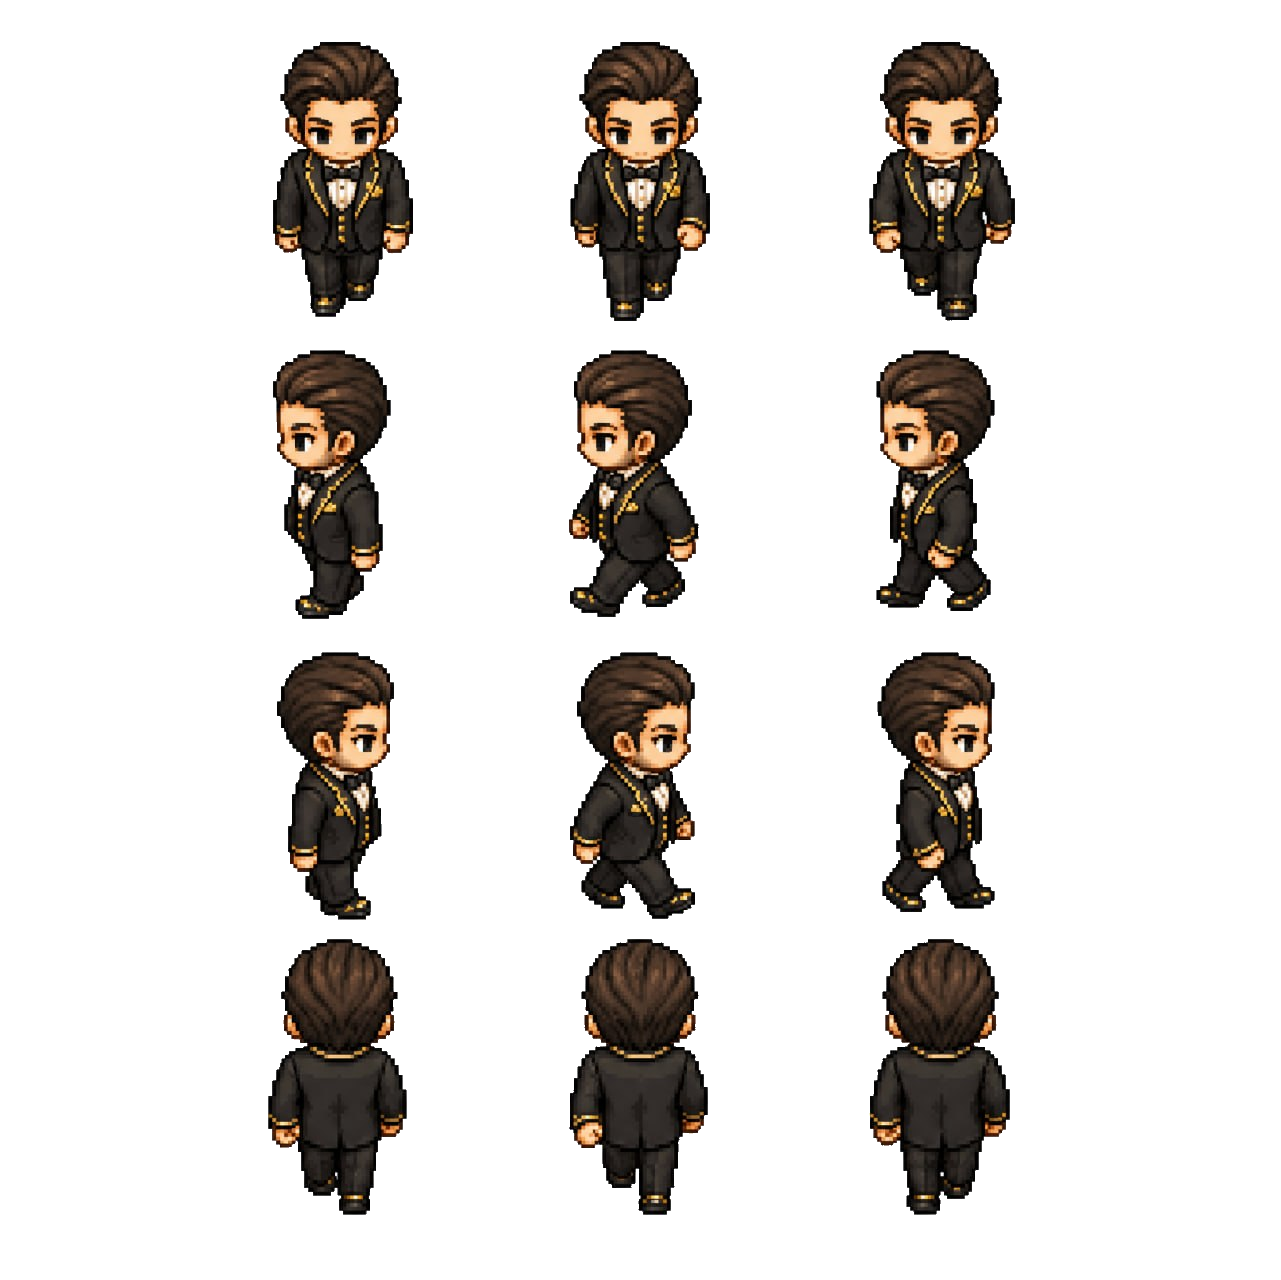
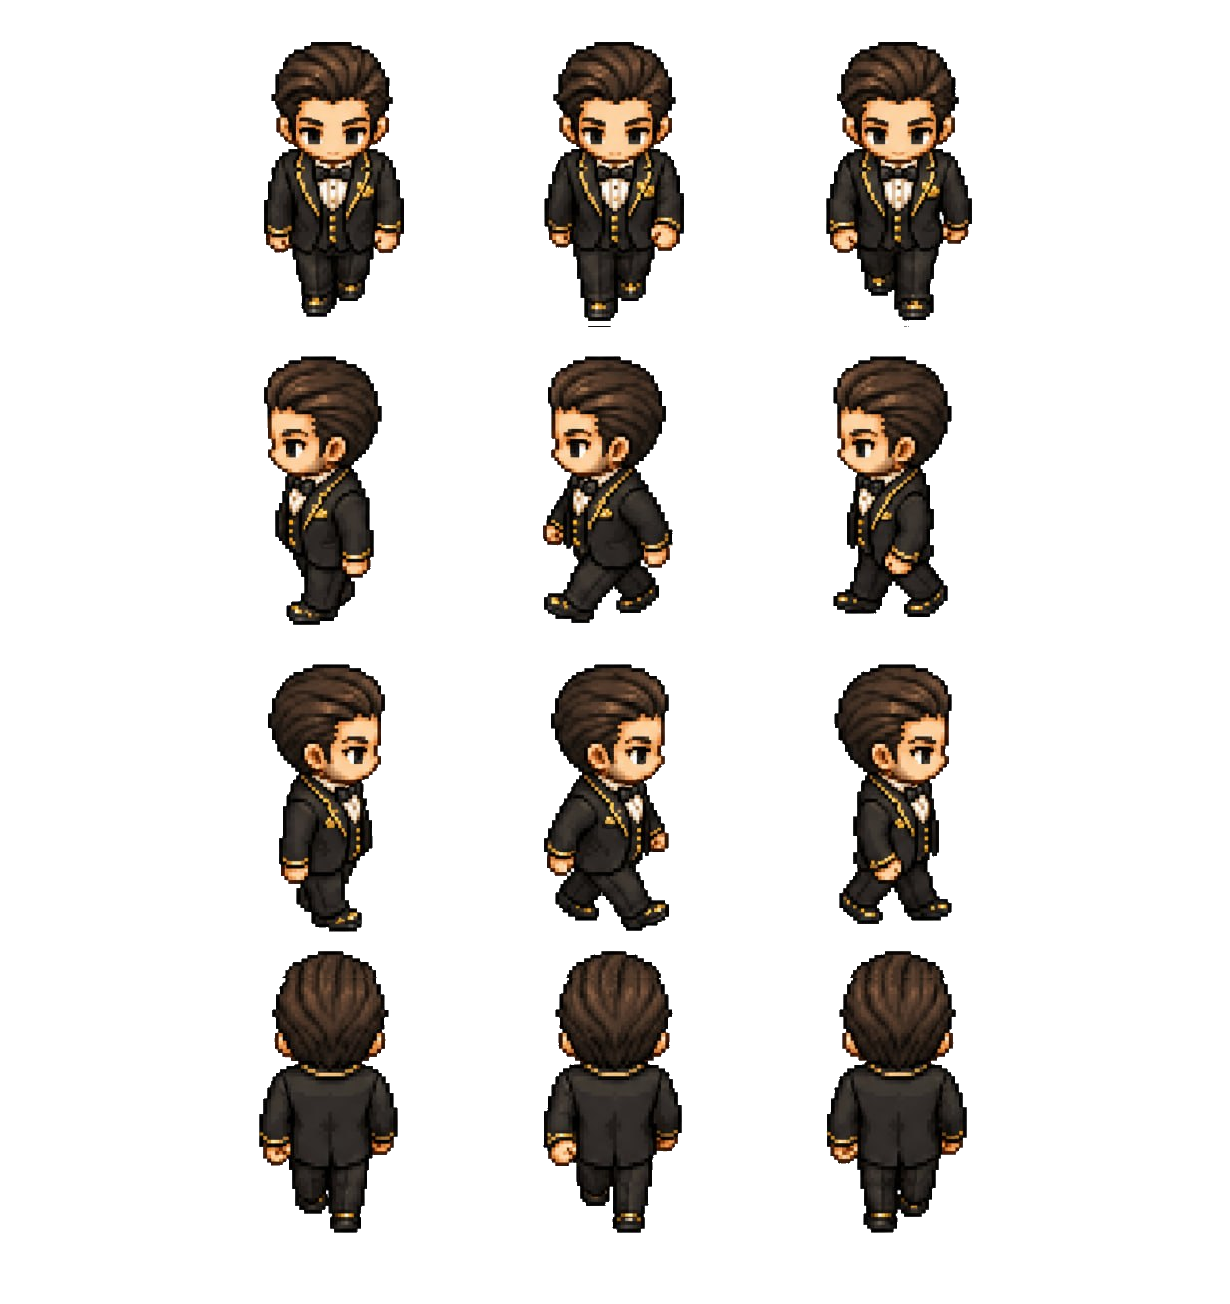
fix(sprites): align walk frames, trim margins, fix scale + head clipping
The loose 427x320 cells had big uneven margins, so frames weren't aligned
(walk jitter side-to-side), the sprite rendered oversized, and the head was
clipped. Reprocessed both sheets:
- slice the 3x4 grid and crop EVERY frame to the union bounding box of all 12
  frames -> identical window per frame, so the body stays fixed and only the
  legs animate (no jitter), full head-to-feet, margins trimmed. Frame now
  410x326 (shared FRAME const in looks.ts).
- WorldScene: display height 62 (~1.3 tiles), origin (0.5,0.95) so feet sit at
  the tile, label/bubble offsets adjusted. ProfileSetup preview uses FRAME too.

Frontend build green.

diff --git a/frontend/src/game/WorldScene.ts b/frontend/src/game/WorldScene.ts
@@ -1,13 +1,13 @@
 import Phaser from 'phaser';
 import type { MvMap } from '../lib/mvMap';
 import type { Interactable, Zone } from '../store';
-import { recolorSheet, lookKey, type Look } from '../lib/looks';
+import { recolorSheet, lookKey, FRAME, type Look } from '../lib/looks';
 
 const TILE = 48;
 // Character sheets are MV "$" single-character sheets: 3 cols x 4 rows.
-const CHAR_W = 427;
-const CHAR_H = 320;
-const DISPLAY_H = 100;
+const CHAR_W = FRAME.w;
+const CHAR_H = FRAME.h;
+const DISPLAY_H = 62; // ~1.3 tiles tall
 const DIRS = ['down', 'left', 'right', 'up'] as const;
 type Dir = (typeof DIRS)[number];
 const DIR_ROW: Record<Dir, number> = { down: 0, left: 1, right: 2, up: 3 };
@@ -131,10 +131,10 @@ export class WorldScene extends Phaser.Scene {
     let p = this.players.get(s.userId);
     const texKey = this.lookTexture(sheetFor(s.avatar), s.look ?? DEFAULT_LOOK);
     if (!p) {
-      const sprite = this.add.sprite(0, 0, texKey, frameAt('down', 1)).setOrigin(0.5, 0.82);
+      const sprite = this.add.sprite(0, 0, texKey, frameAt('down', 1)).setOrigin(0.5, 0.95);
       sprite.setDisplaySize((DISPLAY_H * CHAR_W) / CHAR_H, DISPLAY_H);
       const label = this.add
-        .text(0, -52, s.username, { fontSize: '12px', color: '#fff', stroke: '#000', strokeThickness: 4 })
+        .text(0, -66, s.username, { fontSize: '12px', color: '#fff', stroke: '#000', strokeThickness: 4 })
         .setOrigin(0.5);
       const container = this.add.container(s.x * TILE + TILE / 2, s.y * TILE + TILE / 2, [sprite, label]);
       container.setDepth(10);
@@ -177,7 +177,7 @@ export class WorldScene extends Phaser.Scene {
     const text = this.add
       .text(0, 0, body, { fontSize: '12px', color: '#111', backgroundColor: '#fff', padding: { x: 6, y: 4 }, wordWrap: { width: 160 } })
       .setOrigin(0.5, 1);
-    const bubble = this.add.container(0, -62, [text]);
+    const bubble = this.add.container(0, -80, [text]);
     p.container.add(bubble);
     p.bubble = bubble;
     p.bubbleTimer = this.time.now + 5000;

diff --git a/frontend/src/ui/ProfileSetup.tsx b/frontend/src/ui/ProfileSetup.tsx
@@ -1,9 +1,9 @@
 import { useEffect, useRef, useState } from 'react';
 import './casino.css';
 import { api, type Profile } from '../lib/api';
-import { SKIN, HAIR, SUIT, SWATCH, recolorSheet, type Look } from '../lib/looks';
+import { SKIN, HAIR, SUIT, SWATCH, recolorSheet, FRAME, type Look } from '../lib/looks';
 
-const CHAR_W = 427, CHAR_H = 320;
+const CHAR_W = FRAME.w, CHAR_H = FRAME.h;
 const swatchCss = (rgb: [number, number, number]) => `rgb(${rgb[0]},${rgb[1]},${rgb[2]})`;
 
 /** First-login profile setup: username, sex, and cosmetic recolor presets. */
@@ -61,7 +61,7 @@ export function ProfileSetup({ onDone }: { onDone: (p: Profile) => void }) {
 
         <div style={{ display: 'flex', gap: 18 }}>
           <div className="cz-felt" style={{ padding: 12, display: 'grid', placeItems: 'center' }}>
-            <canvas ref={canvasRef} width={150} height={112} style={{ imageRendering: 'pixelated' }} />
+            <canvas ref={canvasRef} width={150} height={119} style={{ imageRendering: 'pixelated' }} />
             <div className="cz-row" style={{ marginTop: 8, gap: 6 }}>
               {(['MALE', 'FEMALE'] as const).map((g) => (
                 <button key={g} className={g === gender ? 'cz-btn' : 'cz-btn cz-btn--dark'} style={{ padding: '6px 12px' }} onClick={() => setGender(g)}>

diff --git a/frontend/src/lib/looks.ts b/frontend/src/lib/looks.ts
@@ -4,6 +4,9 @@
 
 type RGB = [number, number, number];
 
+// Character sheet frame size (set by tools/process-sprites.mjs — keep in sync).
+export const FRAME = { w: 410, h: 326 };
+
 export const SKIN: Record<string, RGB | null> = {
   default: null,
   light: [238, 194, 158],